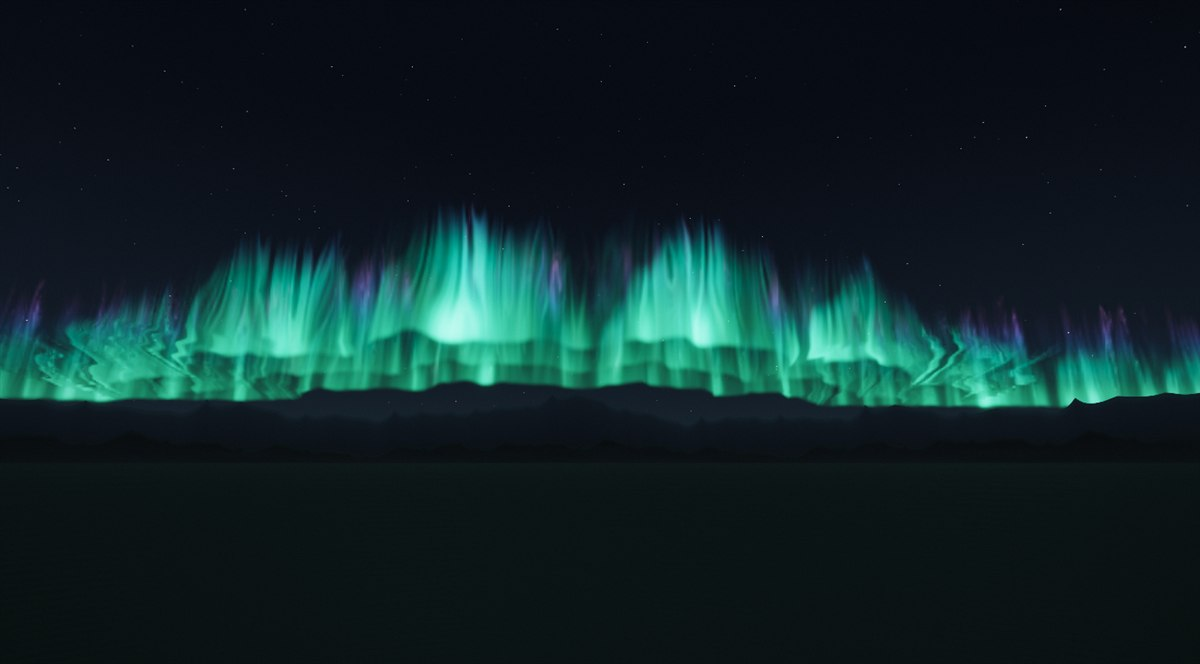
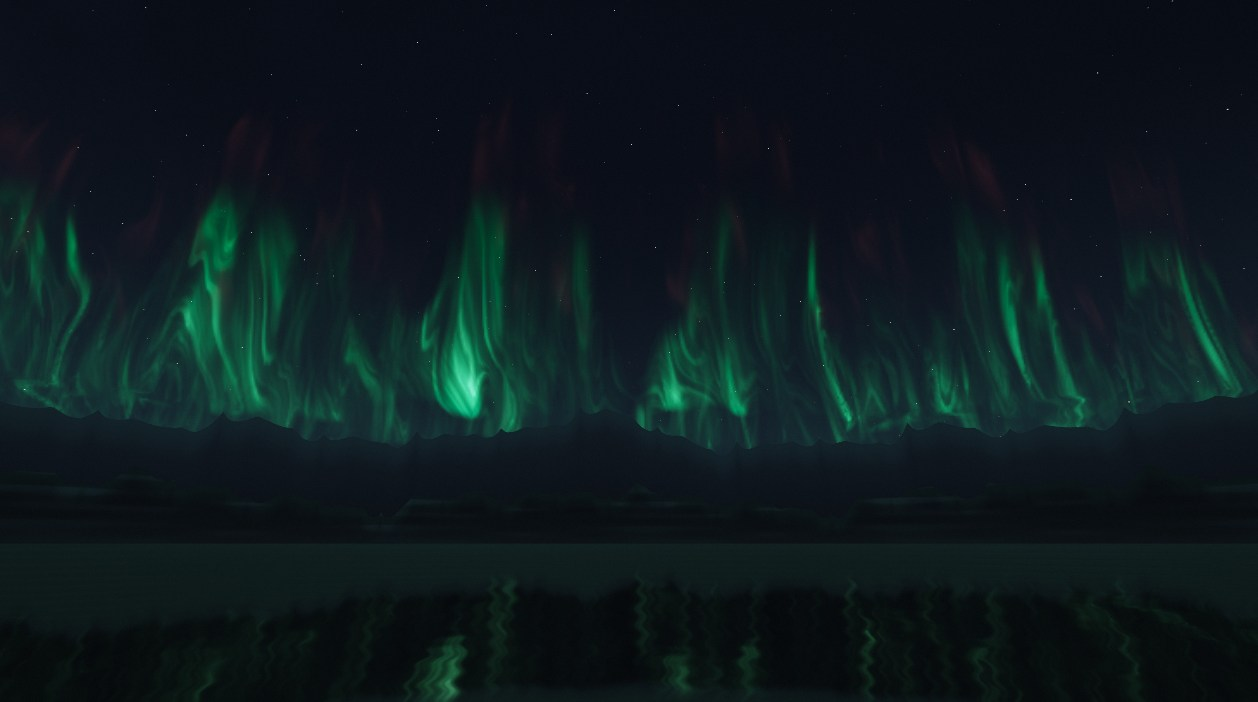
Document the model, pipeline and validation workflow
Rewrite the README around the sheet-intersection architecture, the emission signals and the difference between modelled quantities and artistic approximations. Refresh the preview image and keep review captures out of version control.

Changed region(s): [[0.0, 0.2711, 1.0, 0.6325], [0.3083, 0.9036, 0.37, 1.0], [0.5242, 0.9337, 0.555, 0.994]]

diff --git a/README.md b/README.md
@@ -1,8 +1,9 @@
 # Aurora Borealis — real-time WebGL 2 simulation
 
-A ground-level view of the northern lights, rendered entirely in a WebGL 2
-fragment shader. There are no image textures, models or video: the curtains,
-stars, Milky Way, mountains and ground are generated procedurally every frame.
+A ground-level view of the northern lights, rendered entirely in WebGL 2
+fragment shaders. There are no image textures, models or video: the curtains,
+stars, Milky Way, mountains, lake and snow are generated procedurally every
+frame.
 
 ![Aurora over a mountain horizon](preview.jpg)
 
@@ -46,23 +47,31 @@ substorm onset ──► particle precipitation ──► atmospheric emission
   Southward `Bz` and high speed raise the coupling proxy.
 - **Substorm cycle**: `QUIET → GROWTH → EXPANSION → RECOVERY`.
   Energy builds during growth, releases quickly at expansion onset, then decays
-  through recovery. The HUD shows the current phase. A first substorm begins
-  about 26 seconds after load; later ones are scheduled by the model.
-- **Activity and surge** are the only values the renderer reads. They modulate
-  emission brightness, filament contrast, palette warmth and the bloom that the
-  bright curtains receive.
-- **Emission colours** follow the dominant auroral lines: the 557.7 nm oxygen
-  green at the lower border, 630.0 nm oxygen red at high altitude, and
-  nitrogen blue/violet where energetic precipitation reaches the bottom of the
-  curtain. Colour is therefore a function of altitude, ray energy and activity,
-  not an arbitrary gradient.
-- **Geometry**: the aurora is a set of near-vertical, east–west aligned sheets
-  between roughly 82 and 385 km altitude. Their lower edge forms the bright arc
-  near the horizon; the sheets lean and fold to imitate magnetic field-aligned
-  curtains.
+  through recovery. The HUD shows the current phase. The first substorm begins
+  **24–32 seconds** after load; later ones follow **42–72 seconds** after the
+  previous recovery. The button can start a substorm or add a surge to a
+  running one.
+- **Four visual signals** leave the model and reach the renderer:
+  - `activity` — the fast emission signal (green oxygen).
+  - `activitySlow` — a slower signal with a longer time constant, used for the
+    630.0 nm red layer because the O(1D) state has a much longer radiative
+    lifetime than the green 557.7 nm state.
+  - `energy` — a precipitation-hardness proxy that raises nitrogen blue/violet
+    emission at the base of the curtain.
+  - `surge` — the substorm envelope, which also contracts the sheet stack
+    slightly to suggest the expanding oval.
+- **Background colours** follow the dominant auroral lines: 557.7 nm oxygen
+  green through the body of the curtain, 630.0 nm oxygen red in the high,
+  diffuse top, and N2 / N2+ blue-violet where harder precipitation reaches the
+  lower border. The red layer is intentionally less ray-structured than the
+  green, because it comes from a higher and more uniform emission altitude.
+- **Geometry**: up to four near-vertical, east–west aligned sheets between
+  roughly 82 and 500 km altitude. Their lower edges form the bright arcs; folds,
+  altitude-dependent meanders and a magnetic-field-like lean make them read as
+  curtains rather than flat walls.
 
-The result is physically ordered, but it is an artistic model, not a forecast
-or a magnetohydrodynamic simulation.
+The result is physically ordered, but it is an artistic model, not a forecast,
+a magnetohydrodynamic simulation or a radiative-transfer solution.
 
 ## Rendering pipeline
 
@@ -73,10 +82,10 @@ All passes use one fullscreen triangle and no per-frame allocations.
 | 1 | Aurora volume | 0.34–0.9× canvas, `RGBA16F` | Solves each camera ray against up to four warped curtain sheets, composites them front-to-back. |
 | 2 | Bloom extract | 1/2 resolution | Thresholds the aurora with a soft knee so only bright curtain cores bloom. |
 | 3 | Separable blur | 1/2 and 1/4 resolution | Two Gaussian H/V pairs at different scales. |
-| 4 | Scene composite | canvas | Procedural sky, stars, Milky Way, aurora, two-scale bloom, mountains, ground, ACES tone mapping, grain, vignette. |
+| 4 | Scene composite | canvas | Procedural sky, airglow, stars, Milky Way, aurora, two-scale bloom, mountains, snow, lake reflection, ACES tone mapping, grain, vignette. |
 
-Only the aurora feeds bloom, so stars and the terrain silhouette stay clean
-while bright curtains gain a soft atmospheric halo.
+Only the aurora feeds bloom, so stars, terrain and water stay clean while bright
+curtains gain a soft atmospheric halo.
 
 ### The curtain model
 
@@ -85,11 +94,12 @@ changes between samples, producing salt-and-pepper pixels. The renderer instead
 solves for the ray's intersection with each sheet:
 
 1. Define the sheet surface depth
-   `z(x, y, t) = z0 + bow·(x/z0)² + fold(x, y, t) + lean(y)`.
+   `z(x, y, t) = z0 + bow·(x/z0)² + meander(y) + fold(x, y, t) + lean(y)`.
 2. Iterate `t ← (z(x(t), y(t), t) − camZ) / rd.z` three times. This converges on
    the point where the camera ray crosses the warped sheet.
 3. Evaluate all curtain structure once at that point: large-scale flow,
-   folds, arc-scale envelope, vertical field-aligned rays, altitude profile.
+   altitude-dependent snake, folds, arc-scale envelope, vertical field-aligned
+   rays, nitrogen foot and altitude profile.
 4. Multiply by the analytic line integral of the sheet's Gaussian
    cross-section:
 
@@ -103,9 +113,14 @@ solves for the ray's intersection with each sheet:
    `T *= exp(−τ·absorb)`. This gives overlapping layers real depth while
    remaining cheap.
 
+A second, much wider Gaussian is composited as an optically thin luminous halo
+around each sheet. It supplies the diffuse glow that the unresolved part of a
+real curtain produces, without another render pass.
+
 Because each sheet is integrated analytically, the image is essentially free of
-step aliasing. The quality setting therefore controls detail (`uSteps`) and the
-sheet width, not a sample loop.
+step aliasing. The quality setting therefore controls detail (`uSteps`, which
+drives the fold amplitudes, the optional fine octave and a width compensation),
+not a sample loop.
 
 ### Procedural noise
 
@@ -116,17 +131,22 @@ mipmapped and repeats on all axes. Time animation scrolls the W coordinate, and
 domain warping uses one channel to displace the sampling of another.
 
 The same volume is reused by the scene pass for the Milky Way dust, mountain
-facets and ground snow.
+facets, snow and water ripples.
 
-### Sky, terrain and grade
+### Sky, terrain and water
 
+- The sky is a deep blue gradient with a subtle airglow layer that brightens
+  with geomagnetic activity.
 - Stars are hashed per direction cell in two layers with different density and
   size; they twinkle slowly and sit behind the additive aurora.
 - The Milky Way is a Gaussian band around a fixed axis, modulated by noise dust.
 - Mountains use ridged azimuthal noise at two frequencies, converted to an
-  elevation silhouette with anti-aliased edges, plus a faint aurora-lit rim.
-- The ground is a dark snow field with noise mottling and a low green
-  reflection near the horizon.
+  elevation silhouette with anti-aliased edges. Their upper slopes and snow
+  faces pick up a restrained green rim from the aurora.
+- Snow fields use noise mottling and a low green reflection near the horizon.
+- A frozen lake in the foreground mirrors the modelled aurora. The reflection
+  is projected from the reflected camera ray into the aurora buffer; ripple
+  distortion and a modest vertical stretch are artistic, not ray-traced.
 - The final image is exposed, ACES tone mapped, lightly graded, converted to
   sRGB, vignetted and given fine grain.
 
@@ -137,18 +157,23 @@ facets and ground snow.
 | Aurora intensity | 0–2 | Global emission multiplier. |
 | Turbulence | 0.2–2 | Amplitude and contrast of folds and fine filaments. |
 | Curtain density | 0.15–1 | Opacity, sheet absorption and number of active layers (2–4). |
-| Emission altitude | 0–1 | Shifts the green/teal/blue/violet/red palette up or down. |
+| Emission altitude | 0–1 | Shifts the green/blue/red palette up or down. |
 | Simulation speed | 0–3× | Speed of the space-weather clock and curtain flow. |
 | Exposure | 0.4–2.2 | Filmic exposure before tone mapping. |
 | Trigger substorm | button | Starts a growth phase, or adds a surge to a running substorm. |
-| Pause | button | Freezes simulation time (camera drift continues). |
+| Pause | button | Freezes simulation time (camera drift and water continue). |
 | Auto camera | toggle | Slow cinematic yaw/pitch sway. |
 | Reset view | button | Returns to the default framing. |
 | Quality | button | Cycles Low → Medium → High → Ultra. |
 | Adaptive resolution | toggle | Lowers resolution/detail if FPS drops; restores it when there is headroom. |
 
 Keyboard: `Space` pause, `S` substorm, `R` reset view, `Q` cycle quality,
-`H` hide all UI. Drag to look, scroll to zoom, double-click to reset.
+`H` hide all UI. Drag to look, scroll or pinch to zoom, double-click to reset.
+The camera uses damped follow and a short decaying flick after a drag; with
+`prefers-reduced-motion: reduce` the automatic drift starts off.
+
+If the WebGL context is lost, the page stops rendering and offers a reload
+instead of throwing every frame.
 
 ## URL parameters
 
@@ -172,13 +197,18 @@ All live defaults and world constants are in `js/config.js`.
 | Key | Default | Meaning |
 |---|---|---|
 | `world.baseAlt` | `82` km | Lower edge of the green emission layer. |
-| `world.topAlt` | `252` km | Nominal top of the curtain (far sheets reach higher). |
-| `world.nearZ`, `farZ` | `300`, `900` km | Depth range of the auroral slab. |
+| `world.topAlt` | `252` km | Nominal top of the bright green/red column. |
+| `world.slabTop` | `500` km | Highest modelled red emission (faint sheet tops). |
+| `world.nearZ`, `farZ` | `300`, `940` km | Depth range of the auroral slab. |
 | `world.halfWidth` | `1700` km | Half extent of the slab across the view. |
 | `world.curtainBaseZ` | `430` km | Depth of the first sheet. |
-| `world.curtainSpacing` | `125` km | Depth gap between sheets. |
-| `camera.pitch` | `0.215` rad | Default elevation above the horizon. |
+| `world.curtainSpacing` | `150` km | Depth gap between sheets. |
+| `camera.pitch` | `0.30` rad | Default elevation above the horizon. |
 | `camera.fov` | `61°` | Default vertical field of view. |
+
+The four sheets therefore sit at 430, 580, 730 and 880 km, all inside the
+940 km far plane. The shader receives these bounds as uniforms, so `config.js`
+is the single source of truth.
 
 ### Bloom and quality
 
@@ -204,30 +234,35 @@ The aurora shader (`js/shaders/aurora.js`) receives:
 |---|---|
 | `uIntensity`, `uTurbulence`, `uDensity` | UI parameters. |
 | `uColorBias` | Emission-altitude palette shift. |
-| `uActivity`, `uSurge` | Space-weather brightness and substorm envelope. |
-| `uSteps` | Detail quality: drives `detail` and sheet width. |
+| `uActivity`, `uActivitySlow` | Fast green and slow red emission signals. |
+| `uEnergy` | Precipitation-hardness proxy (blue/violet weight). |
+| `uSurge` | Substorm envelope and sheet-stack contraction. |
+| `uFlow` | Flow-speed multiplier for the noise scroll. |
+| `uSteps` | Detail quality: fold amplitude, fine octave and sheet width. |
 | `uLayers` | Number of active curtain sheets (2–4). |
 | `uWidthScale` | Compensates fewer detail levels with slightly wider sheets. |
-| `uBaseAlt`, `uAltSpan` | Altitude mapping of the slab. |
+| `uBaseAlt`, `uAltSpan`, `uSlabTop` | Altitude mapping of the modelled slab. |
 | `uBaseZ`, `uSpacing` | Sheet depths. |
+| `uNearZ`, `uFarZ`, `uHalfWidth` | Slab bounds. |
 | `uNoise` | The 64³ RGBA noise volume. |
 
-Notable constants inside the shader:
+Notable constants and derived quantities inside the shader:
 
 - `gainBase = 0.060 · intensity · (0.62 + 0.80·activity + 0.28·surge)` —
   overall emission gain.
 - `absorb = 0.014 · (0.35 + 0.9·density)` — per-layer optical depth.
-- `foldAmp ≈ 22–52 km` — depth displacement of the curtain folds.
-- `bow = 210·(x/z0)²` km — recedes the sheet at the frame edges so the arc
-  sweeps up in the middle.
-- `lean = v·(17 + 14·noise)` km — height-dependent tilt of the field lines.
-- Ray frequency `0.026`, two octaves; arc envelope and lobes are extra
-  low-frequency fetches of the same noise volume.
-- `emissionColor()` holds the green/teal/blue/violet/red palette.
+- `foldAmp ≈ 24–58 km`, plus a 12–42 km fine term — depth displacement of the
+  curtain folds.
+- `bow = (42 + 16·layer)·(x / 1.6·z0)²` km — recedes the sheet towards the frame
+  edges so the arc sweeps up in the middle.
+- `lean = v·(16 + 15·noise)` km — height-dependent tilt of the field lines.
+- Base ray frequency `0.024`, optional fine octave at `0.082`.
+- `emission()` holds the 557.7 / 630.0 / N2 / N2+ weights and the altitude
+  profiles; it is not a spectral render.
 
 Scene-side parameters live in `js/shaders/scene.js` (star layers, Milky Way
-axis, ridge frequencies `6.0/9.0`, grading); the star tuning and bloom weights
-are in `js/config.js`.
+axis, ridge frequencies `6.0/9.0`, lake reflection, grading); the star tuning
+and bloom weights are in `js/config.js`.
 
 ## Performance notes
 
@@ -241,24 +276,26 @@ are in `js/config.js`.
   ~47, and recovers when FPS exceeds ~58.
 - If `requestAnimationFrame` is throttled to a standstill (some embedded
   panels), a timer-driven fallback keeps the simulation running.
+- The lake reflection adds three texture fetches in the scene pass (aurora plus
+  the two bloom scales), not a second aurora render.
 
 ## Files
 
 ```
-index.html              markup, UI, error overlay
-css/style.css           visual design and responsive layout
+index.html              markup, UI, error and context-loss overlays
+css/style.css           visual design, responsive layout, reduced motion
 js/config.js            world, camera, quality, bloom and noise defaults
 js/noise.js             tileable 3D value-noise generator
-js/physics.js           solar wind → coupling → substorm state machine
-js/camera.js            damped look controls and cinematic drift
+js/physics.js           solar wind → coupling → storage → substorm state machine
+js/camera.js            damped look controls, inertia, pinch zoom, drift
 js/gl.js                programs, render targets, noise texture helpers
 js/shaders/common.js    fullscreen triangle, hashes, ACES, sRGB
-js/shaders/aurora.js    closest-approach curtain volume
+js/shaders/aurora.js    closest-approach curtain volume and emission model
 js/shaders/post.js      bloom extract, blur, downsample
-js/shaders/scene.js     sky, stars, aurora composite, terrain, grade
+js/shaders/scene.js     sky, stars, aurora composite, terrain, lake, grade
 js/renderer.js          render pipeline and target management
 js/ui.js                DOM controls and keyboard shortcuts
-js/main.js              boot, frame loop, adaptive resolution
+js/main.js              boot, frame loop, adaptive resolution, context loss
 tools/shot.mjs          headless Chrome screenshot harness (development only)
 ```
 
@@ -271,16 +308,67 @@ another platform.
 
 ```sh
 # canvas only
-node tools/shot.mjs "http://127.0.0.1:8123/?v=64&quality=high&noauto&capture=1" shot.png 1200
+node tools/shot.mjs "http://127.0.0.1:8123/?v=96&quality=high&noauto&capture=1" shot.png 1200
 
 # full page, including the control panel
 $env:SHOT_PAGE="1"           # PowerShell
-node tools/shot.mjs "http://127.0.0.1:8123/?v=64" page.png 1200
+node tools/shot.mjs "http://127.0.0.1:8123/?v=96" page.png 1200
 ```
 
 Other environment variables: `SHOT_SIZE` (`1200,760`), `SHOT_EVAL` (JavaScript
 run before capture), `SHOT_EVAL_WAIT` (ms), `SHOT_EMULATE` (`390x780`, applies
 mobile emulation and reloads), `SHOT_DPR`.
 
-The version query string (`?v=64`) is only cache busting and can be omitted in
+The version query string (`?v=96`) is only cache busting and can be omitted in
 normal use.
+
+### Repeatable state captures
+
+The model is time-driven, so a headless capture can be placed in a known state
+with `SHOT_EVAL`:
+
+```powershell
+# expansion-phase curtain
+$env:SHOT_EVAL=@'
+const w = window.__aurora.weather;
+w._enter(2, 40); w.phaseT = 9; w.env = 0.95; w.surge = 0.9;
+w.activity = 0.95; w.activitySlow = 0.9; w.energy = 0.8; w.stored = 0.8;
+'@
+$env:SHOT_EVAL_WAIT="2500"
+node tools/shot.mjs "http://127.0.0.1:8123/?quality=high&noauto&capture=1" growth.png 2500
+```
+
+Useful states: `_enter(0, 0)` quiet, `_enter(1, 8)` growth, `_enter(2, 40)`
+expansion, `_enter(3, 30)` recovery. Set the visual fields as well when a capture
+must not wait for smoothing. Automatic captures were taken at quiet, growth,
+expansion, recovery, high activity, alternate angles, all four quality tiers and
+a 390×780 mobile viewport.
+
+## Modelled vs artistic
+
+| Modelled / physically ordered | Artistic approximation |
+|---|---|
+| Solar-wind speed, density and `Bz` drive a coupling proxy. | The sine periods and amplitudes are illustrative, not measured solar-wind data. |
+| Substorm phases and stored energy are a state machine. | Phase durations and the 24–32 s / 42–72 s scheduling are chosen for viewing, not derived from observations. |
+| Emission is weighted by altitude for 557.7 nm OI, 630.0 nm OI and N2/N2+ bands. | The weights are display-space colours, not a spectral or radiative-transfer calculation. |
+| The red layer follows a slower signal than the green layer. | The two time constants approximate the O(1D) lifetime; they are not solved from chemistry. |
+| Near-vertical sheets lean and meander like field-aligned curtains. | The sheets are Gaussian surfaces with artistic folds; no magnetic-field integration is performed. |
+| The oval contracts during a substorm. | It is represented by a small depth shift of the sheet stack, not a mapped auroral oval. |
+| Front-to-back absorption gives overlapping arcs depth. | Optical depth is a single scalar per layer. |
+| The lake reflects the modelled sky through a reflected camera ray. | Ripple distortion, vertical stretch and brightness are stylised for the shot. |
+| Bloom and ACES produce a filmic image. | These are display transforms, not instrument response. |
+
+## Limitations
+
+- No live or historical space-weather data is fetched. The HUD values are
+  modelled proxies and are labelled as such.
+- No magnetohydrodynamics, particle tracing, ionospheric chemistry or
+  radiative transfer is solved.
+- The camera is fixed at the origin; there is no terrain-scale fly-through.
+- The lake reflection is screen-space and only contains the aurora buffer, not
+  the stars or mountains.
+- The renderer favours a coherent, low-cost approximation over measured
+  radiometry. Different solar-wind conditions will not reproduce a specific
+  real event.
+- Headless Chrome uses SwiftShader, so the review harness runs at only a few
+  frames per second even though hardware browsers are much faster.
